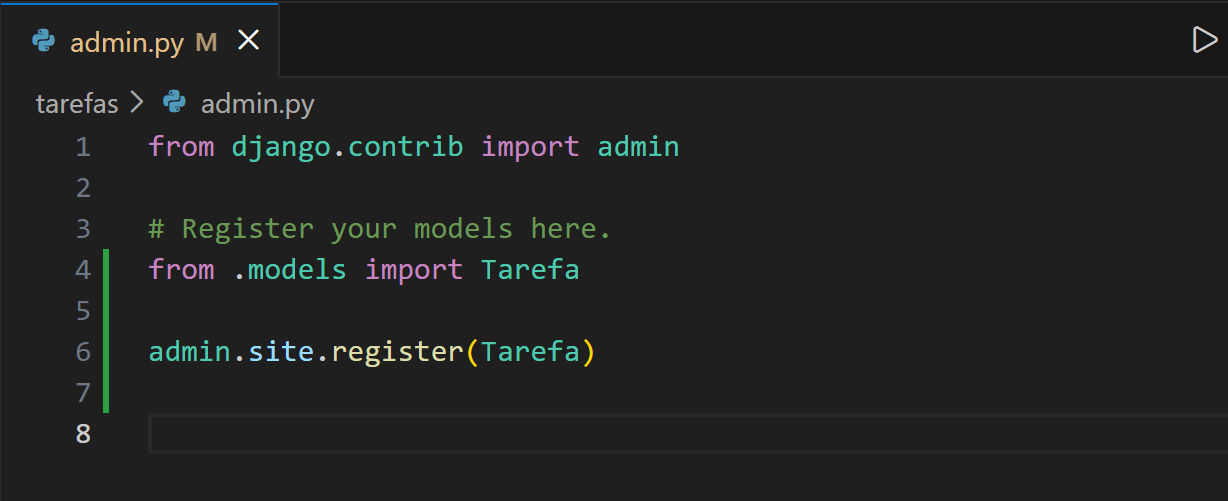
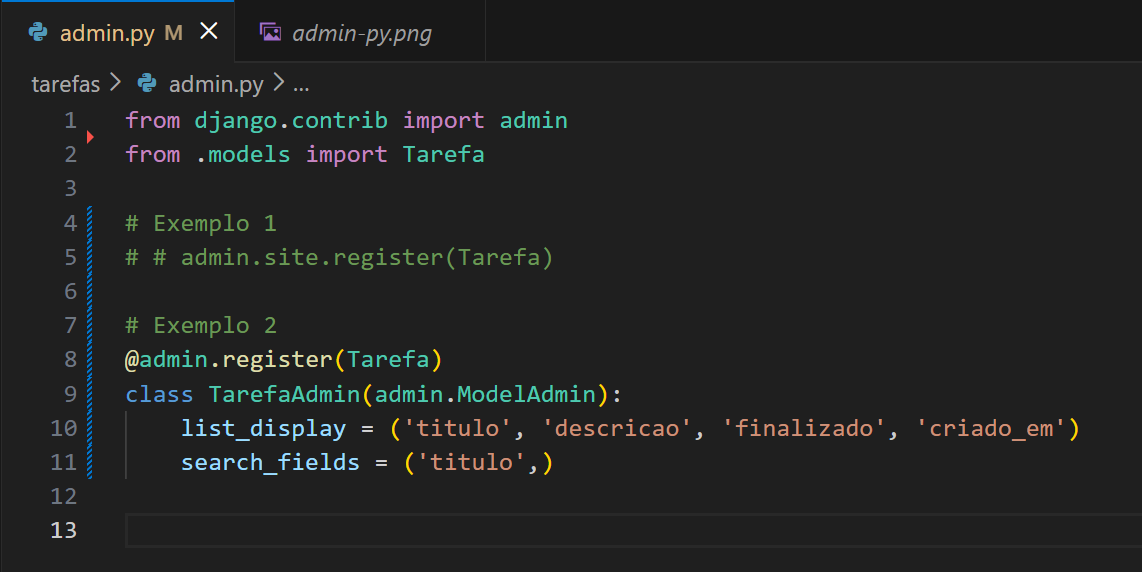
atualizando o admin

diff --git a/tarefas/admin.py b/tarefas/admin.py
@@ -1,7 +1,12 @@
 from django.contrib import admin
-
-# Register your models here.
 from .models import Tarefa
 
-admin.site.register(Tarefa)
+# Exemplo 1 
+# # admin.site.register(Tarefa)
+
+# Exemplo 2
+@admin.register(Tarefa)
+class TarefaAdmin(admin.ModelAdmin):
+    list_display = ('titulo', 'descricao', 'finalizado', 'criado_em')
+    search_fields = ('titulo',)
 

diff --git a/create-project.md b/create-project.md
@@ -82,5 +82,6 @@ python manage.py migrate
 
 # Registrando um Model Tarefa
 <img src="./preview/passos/registrando-model.png">
-```
-```
+
+# Definindo um modulo melhor de view para a tarefa no painel
+<img src="./preview/passos/admin-py.png" />
